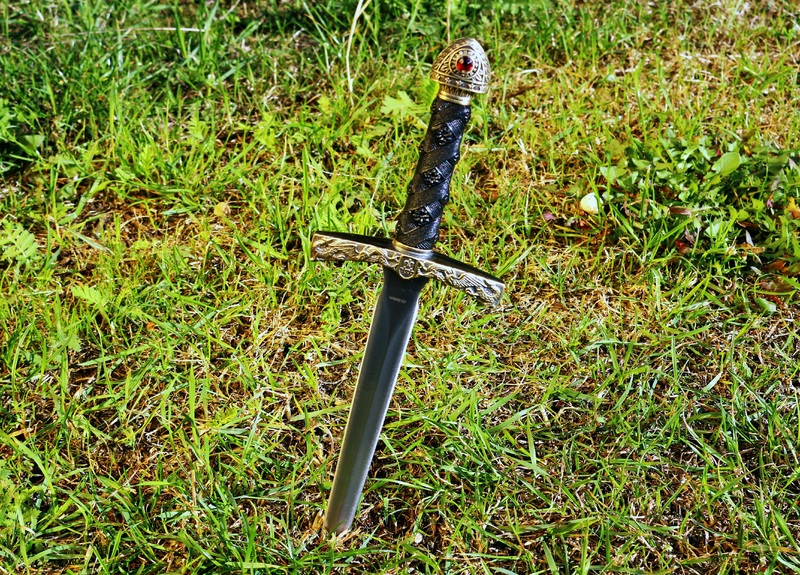
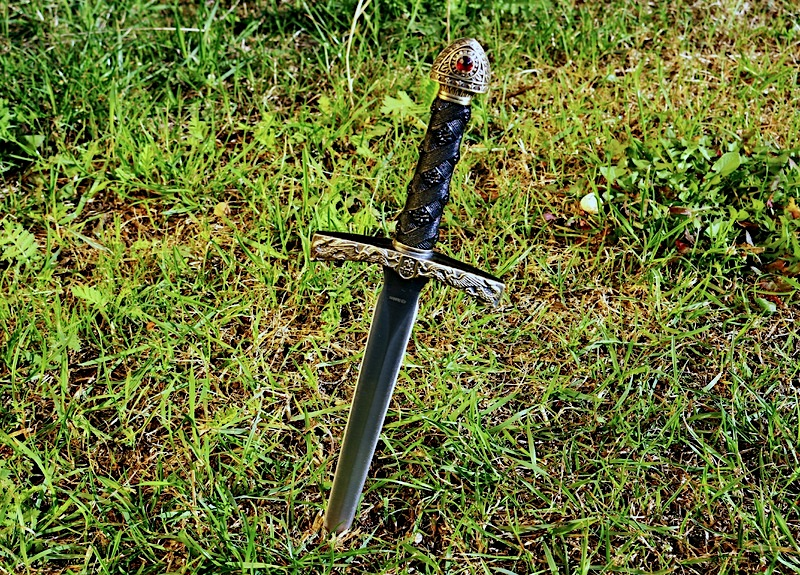
Link from sword to get out

diff --git a/docs/index.html b/docs/index.html
@@ -137,14 +137,16 @@ You need to [[get out]]...
 
 [img[bedroom window.jpg]] &lt;!-- JOHN-MARK SMITH, UNSPLASH.COM 5/23/2017 --&gt;</tw-passagedata><tw-passagedata pid="3" name="get out" tags="" position="350,100" size="100,100">You go to the forest behind your house and decide to take a walk to clear your head of the racing thoughts.
 
-You see a rusty sword laying on the ground. Should you [[grab it]] just in case?
+You see a small dagger stabbed into the ground. Should you [[grab it]] just in case?
 
 Which way do you turn? [[Left]] or [[right]]?</tw-passagedata><tw-passagedata pid="4" name="grab it" tags="" position="475,100" size="100,100">&lt;&lt;set $sword to true&gt;&gt;
-The sword seems ancient.
+The dagger seems old.
 
 It has a good amount of weight and an intricate handle.
 
-You carry it by your side and continue on.</tw-passagedata><tw-passagedata pid="5" name="Left" tags="" position="600,100" size="100,100">Out of the corner of your eye you see a twinkling light.
+You carry it by your side and [[continue on|get out]].
+
+[img[swordingrass.jpg]] &lt;!-- https://pxhere.com/en/photo/451008?utm_content=shareClip&amp;utm_medium=referral&amp;utm_source=pxhere --&gt;</tw-passagedata><tw-passagedata pid="5" name="Left" tags="" position="600,100" size="100,100">Out of the corner of your eye you see a twinkling light.
 
 It glows a pale yellow and you peek around a tree to find the source of the [[light]].</tw-passagedata><tw-passagedata pid="6" name="right" tags="" position="725,100" size="100,100">You hear rustling as you make your way down the path.
 
